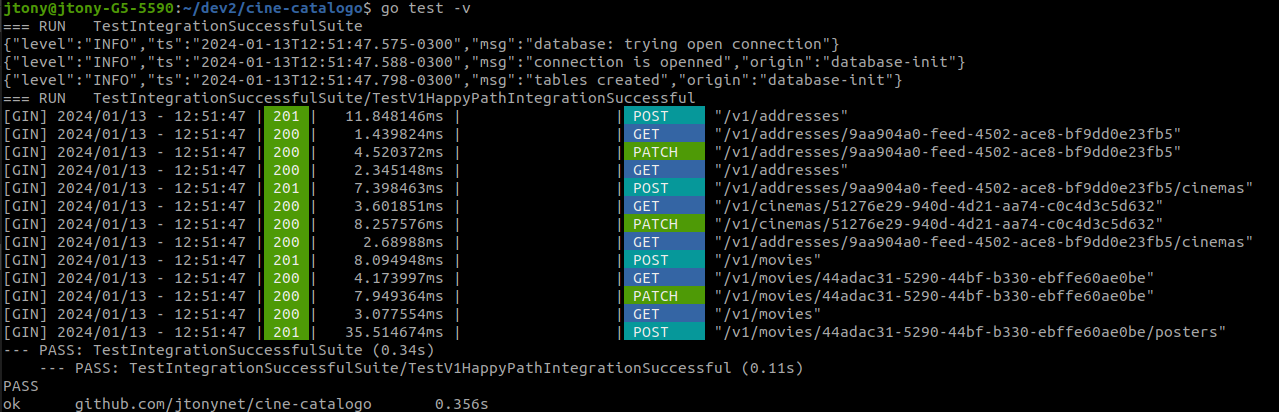
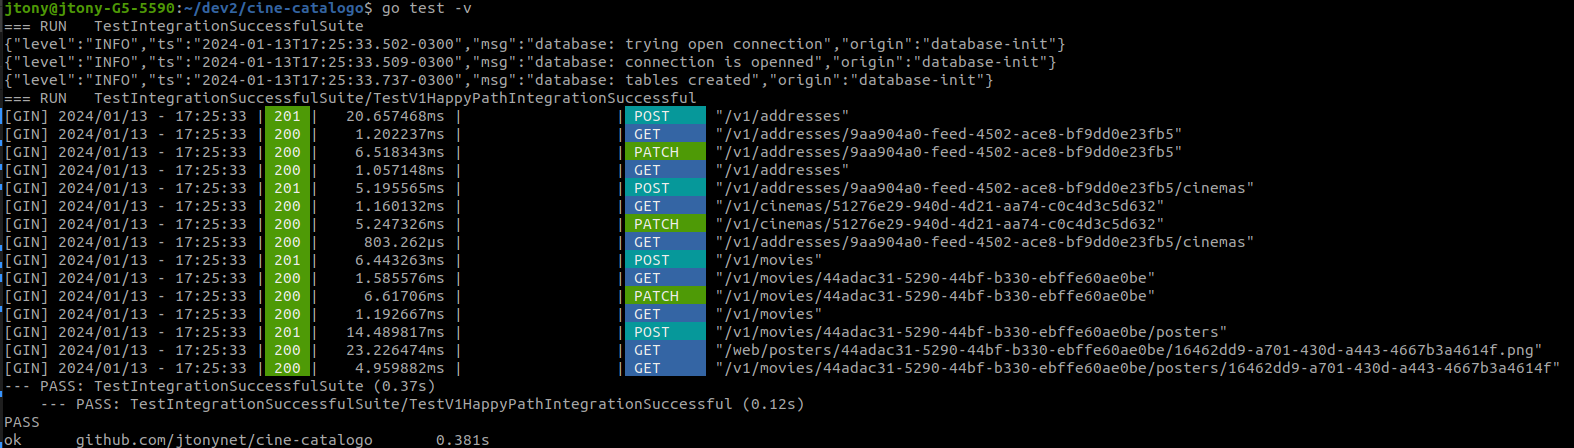
feat(docs): Retrieve Movie Poster tests and some README.md improviments

diff --git a/main_routes_integration_successful_test.go b/main_routes_integration_successful_test.go
@@ -2,6 +2,8 @@ package main_routes_integration_test
 
 import (
 	"bytes"
+	"crypto/md5"
+	"encoding/hex"
 	"encoding/json"
 	"fmt"
 	"io"
@@ -453,24 +455,27 @@ func (suite *IntegrationSuccesfulSuite) postersRoutes() {
 	fileBuffer := make([]byte, fileInfo.Size())
 	posterFile.Read(fileBuffer)
 	fileBytes := bytes.NewReader(fileBuffer)
+	posterFileUploadedMD5 := calculateMD5(fileBuffer)
+
+	imageContentType := "image/png"
 
 	posterMultPartRequestBody := &bytes.Buffer{}
 	writer := multipart.NewWriter(posterMultPartRequestBody)
 	posterFileHeader := make(textproto.MIMEHeader)
 	posterFileHeader.Set("Content-Disposition", fmt.Sprintf(`form-data; name="%s"; filename="%s"`, "file", filepath.Base(posterPath)))
-	posterFileHeader.Set("Content-Type", "image/png")
+	posterFileHeader.Set("Content-Type", imageContentType)
 	posterFilePart, err := writer.CreatePart(posterFileHeader)
 	assert.NoError(suite.T(), err)
 
 	io.Copy(posterFilePart, fileBytes)
 
-	fields := map[string]string{
+	posterMultPartFields := map[string]string{
 		"uuid":            suite.posterUUID.String(),
 		"name":            "Back To The Recursion",
 		"alternativeText": "Uma aventura no tempo usando técnicas avançadas de desenvolvimento de software",
 	}
 
-	for key, value := range fields {
+	for key, value := range posterMultPartFields {
 		err := writer.WriteField(key, value)
 		assert.NoError(suite.T(), err)
 	}
@@ -487,6 +492,46 @@ func (suite *IntegrationSuccesfulSuite) postersRoutes() {
 	assert.Equal(suite.T(), respUploadPoster.Header().Get("Content-Type"), responses.HALHeaders["Content-Type"])
 	assert.DirExists(suite.T(), suite.uploadMoviePosterPath)
 
+	// Retrieve Static Poster File
+	suite.router, suite.routesV1 = setupRouterAndGroup(suite.cfg.API)
+	suite.router.Static("/web", suite.cfg.API.StaticsDir)
+
+	movieUUIDPosterUUIDFileRoute := fmt.Sprintf("/web/posters/%s/%s.png", suite.movieUUID.String(), suite.posterUUID)
+	reqRetrieveStaticPosterFile, err := http.NewRequest("GET", movieUUIDPosterUUIDFileRoute, nil)
+	assert.NoError(suite.T(), err)
+	respRetrieveStaticPosterFile := httptest.NewRecorder()
+	suite.router.ServeHTTP(respRetrieveStaticPosterFile, reqRetrieveStaticPosterFile)
+
+	assert.Equal(suite.T(), http.StatusOK, respRetrieveStaticPosterFile.Code)
+	assert.Equal(suite.T(), imageContentType, respRetrieveStaticPosterFile.Header().Get("Content-Type"))
+
+	posterFileRetrievedMD5 := calculateMD5(respRetrieveStaticPosterFile.Body.Bytes())
+	assert.Equal(suite.T(), posterFileUploadedMD5, posterFileRetrievedMD5)
+
+	// Retrieve Poster
+	suite.router, suite.routesV1 = setupRouterAndGroup(suite.cfg.API)
+	suite.routesV1.GET("/movies/:movie_id/posters/:poster_id", handlers.RetrieveMoviePoster)
+
+	movieUUIDPosterUUIDRoute := fmt.Sprintf("/v1/movies/%s/posters/%s", suite.movieUUID, suite.posterUUID)
+
+	reqMoviePosterRetrieve, err := http.NewRequest("GET", movieUUIDPosterUUIDRoute, nil)
+	assert.NoError(suite.T(), err)
+	respMoviePosterRetrieve := httptest.NewRecorder()
+	suite.router.ServeHTTP(respMoviePosterRetrieve, reqMoviePosterRetrieve)
+
+	bodyRetrieveMoviePoster := respMoviePosterRetrieve.Body.String()
+	assert.Equal(suite.T(), http.StatusOK, respMoviePosterRetrieve.Code)
+	assert.Equal(suite.T(), respMoviePosterRetrieve.Header().Get("Content-Type"), responses.HALHeaders["Content-Type"])
+	assert.Equal(suite.T(), gjson.Get(bodyRetrieveMoviePoster, "uuid").String(), posterMultPartFields["uuid"])
+	assert.Equal(suite.T(), gjson.Get(bodyRetrieveMoviePoster, "name").String(), posterMultPartFields["name"])
+	assert.Equal(suite.T(), gjson.Get(bodyRetrieveMoviePoster, "alternativeText").String(), posterMultPartFields["alternativeText"])
+
+}
+
+func calculateMD5(buffer []byte) string {
+	hash := md5.New()
+	_, _ = hash.Write(buffer)
+	return hex.EncodeToString(hash.Sum(nil))
 }
 
 func TestIntegrationSuccessfulSuite(t *testing.T) {

diff --git a/internal/database/database.go b/internal/database/database.go
@@ -28,7 +28,8 @@ func Init(cfg config.Database) error {
 	}
 	log = decorators.NewLoggerWithMetrics(l)
 
-	log.Info("database: trying open connection")
+	log.WithField("origin", key).
+		Info("database: trying open connection")
 
 	strConn := fmt.Sprintf("host=%s user=%s password=%s dbname=%s port=%v sslmode=disable",
 		cfg.Host,
@@ -56,7 +57,7 @@ func Init(cfg config.Database) error {
 	}
 
 	log.WithField("origin", key).
-		Info("connection is openned")
+		Info("database: connection is openned")
 
 	DB.AutoMigrate(&models.Address{})
 	DB.AutoMigrate(&models.Cinema{})
@@ -65,7 +66,7 @@ func Init(cfg config.Database) error {
 	DB.AutoMigrate(&models.Poster{})
 
 	log.WithField("origin", key).
-		Info("tables created")
+		Info("database: tables created")
 
 	return nil
 }

diff --git a/README.md b/README.md
@@ -186,6 +186,8 @@ Distribute breakpoints at code points of interest, and in "Run and Debug," click
 
 <img src="./docs/assets/images/screen_captures/debbuging_console.png">
 
+See [VisualStudio Go Debugging](https://code.visualstudio.com/docs/languages/go#_debugging) for more configuration details
+
 <br/>
 
 [:arrow_heading_up: back to top](#index)
